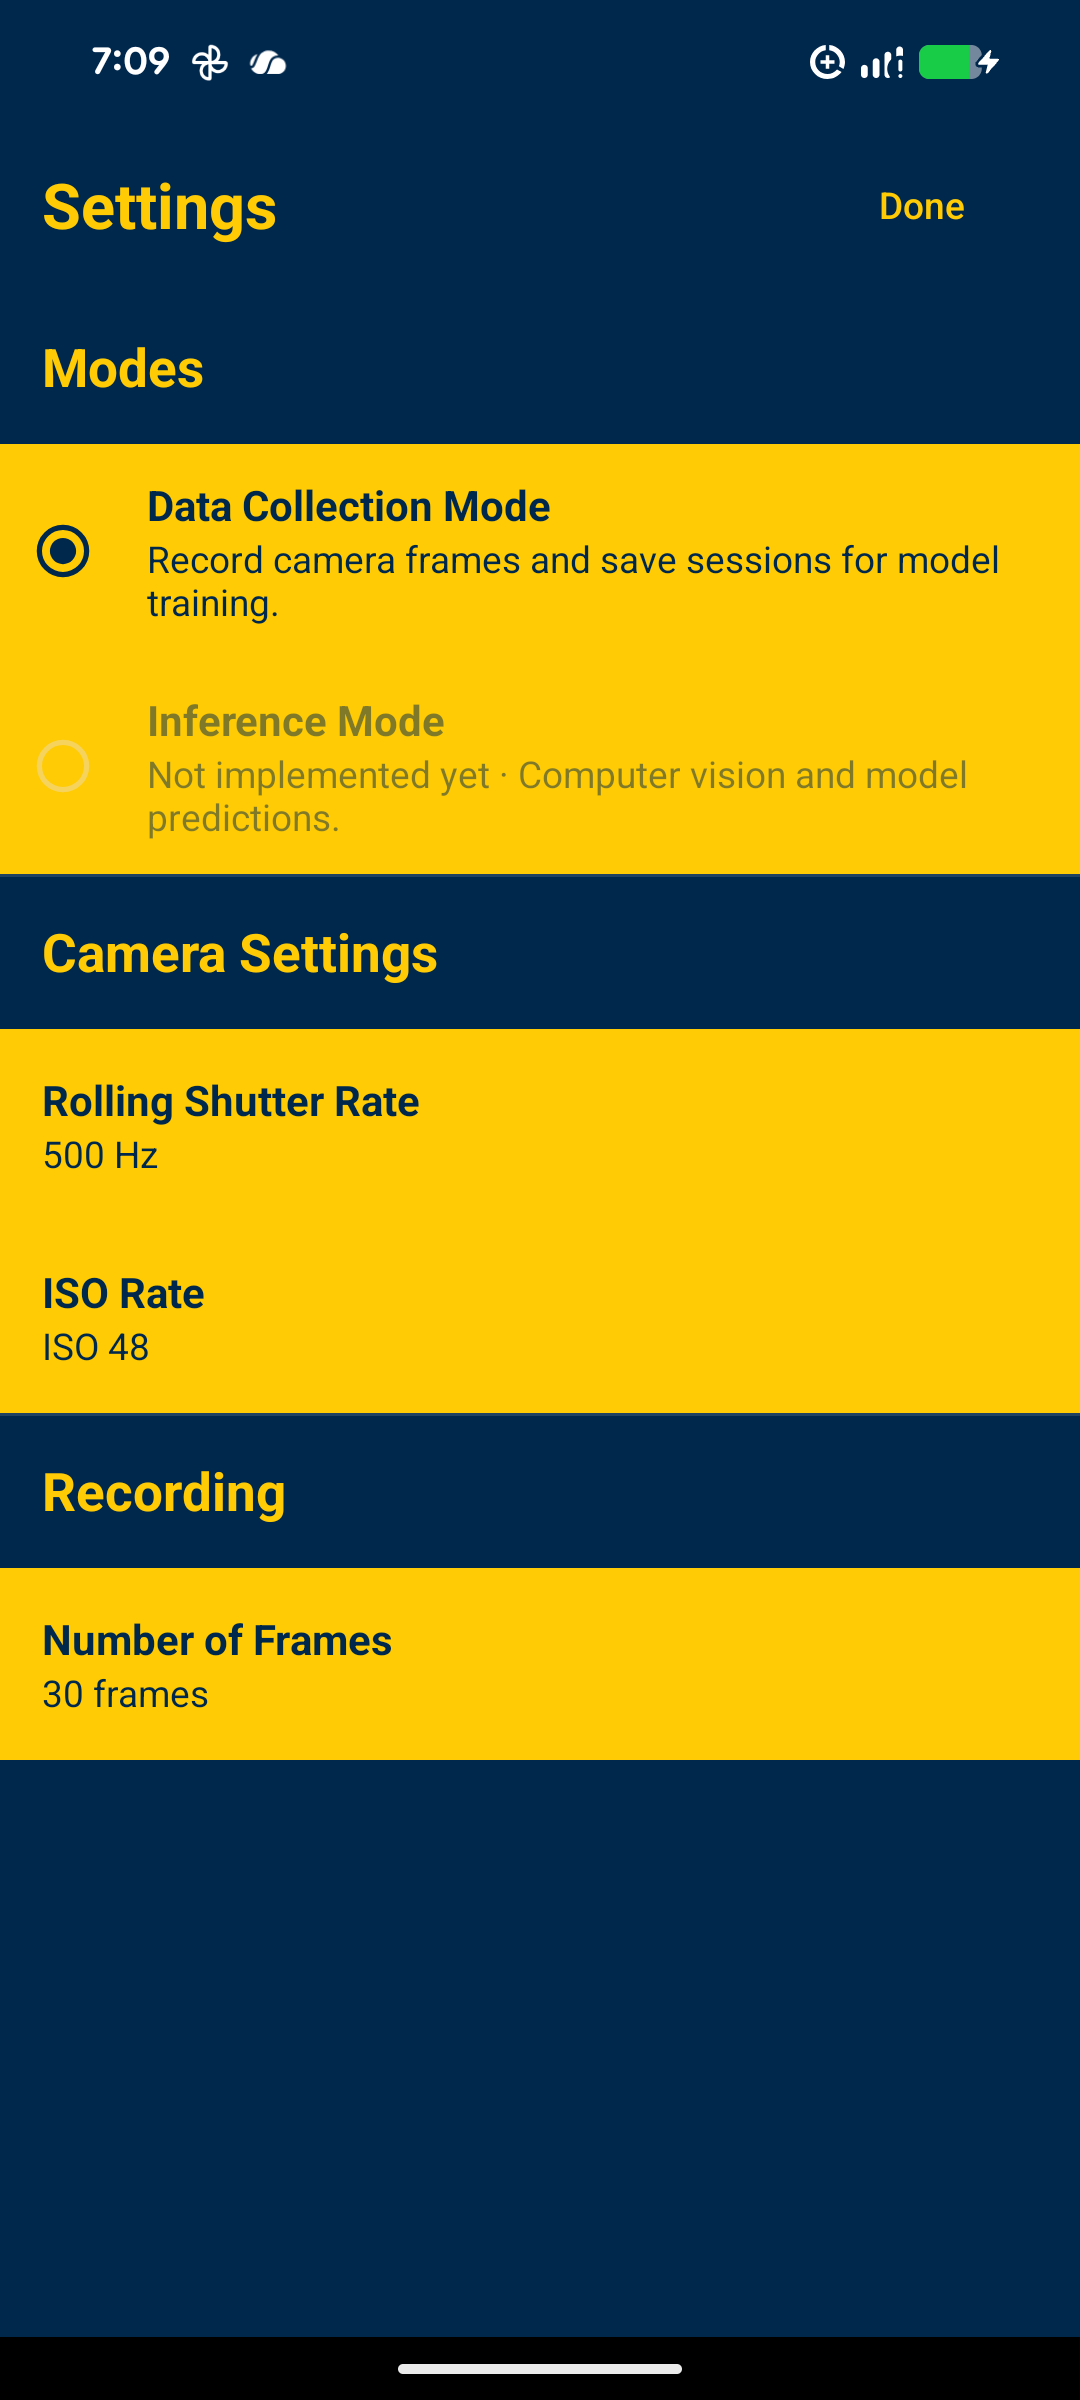
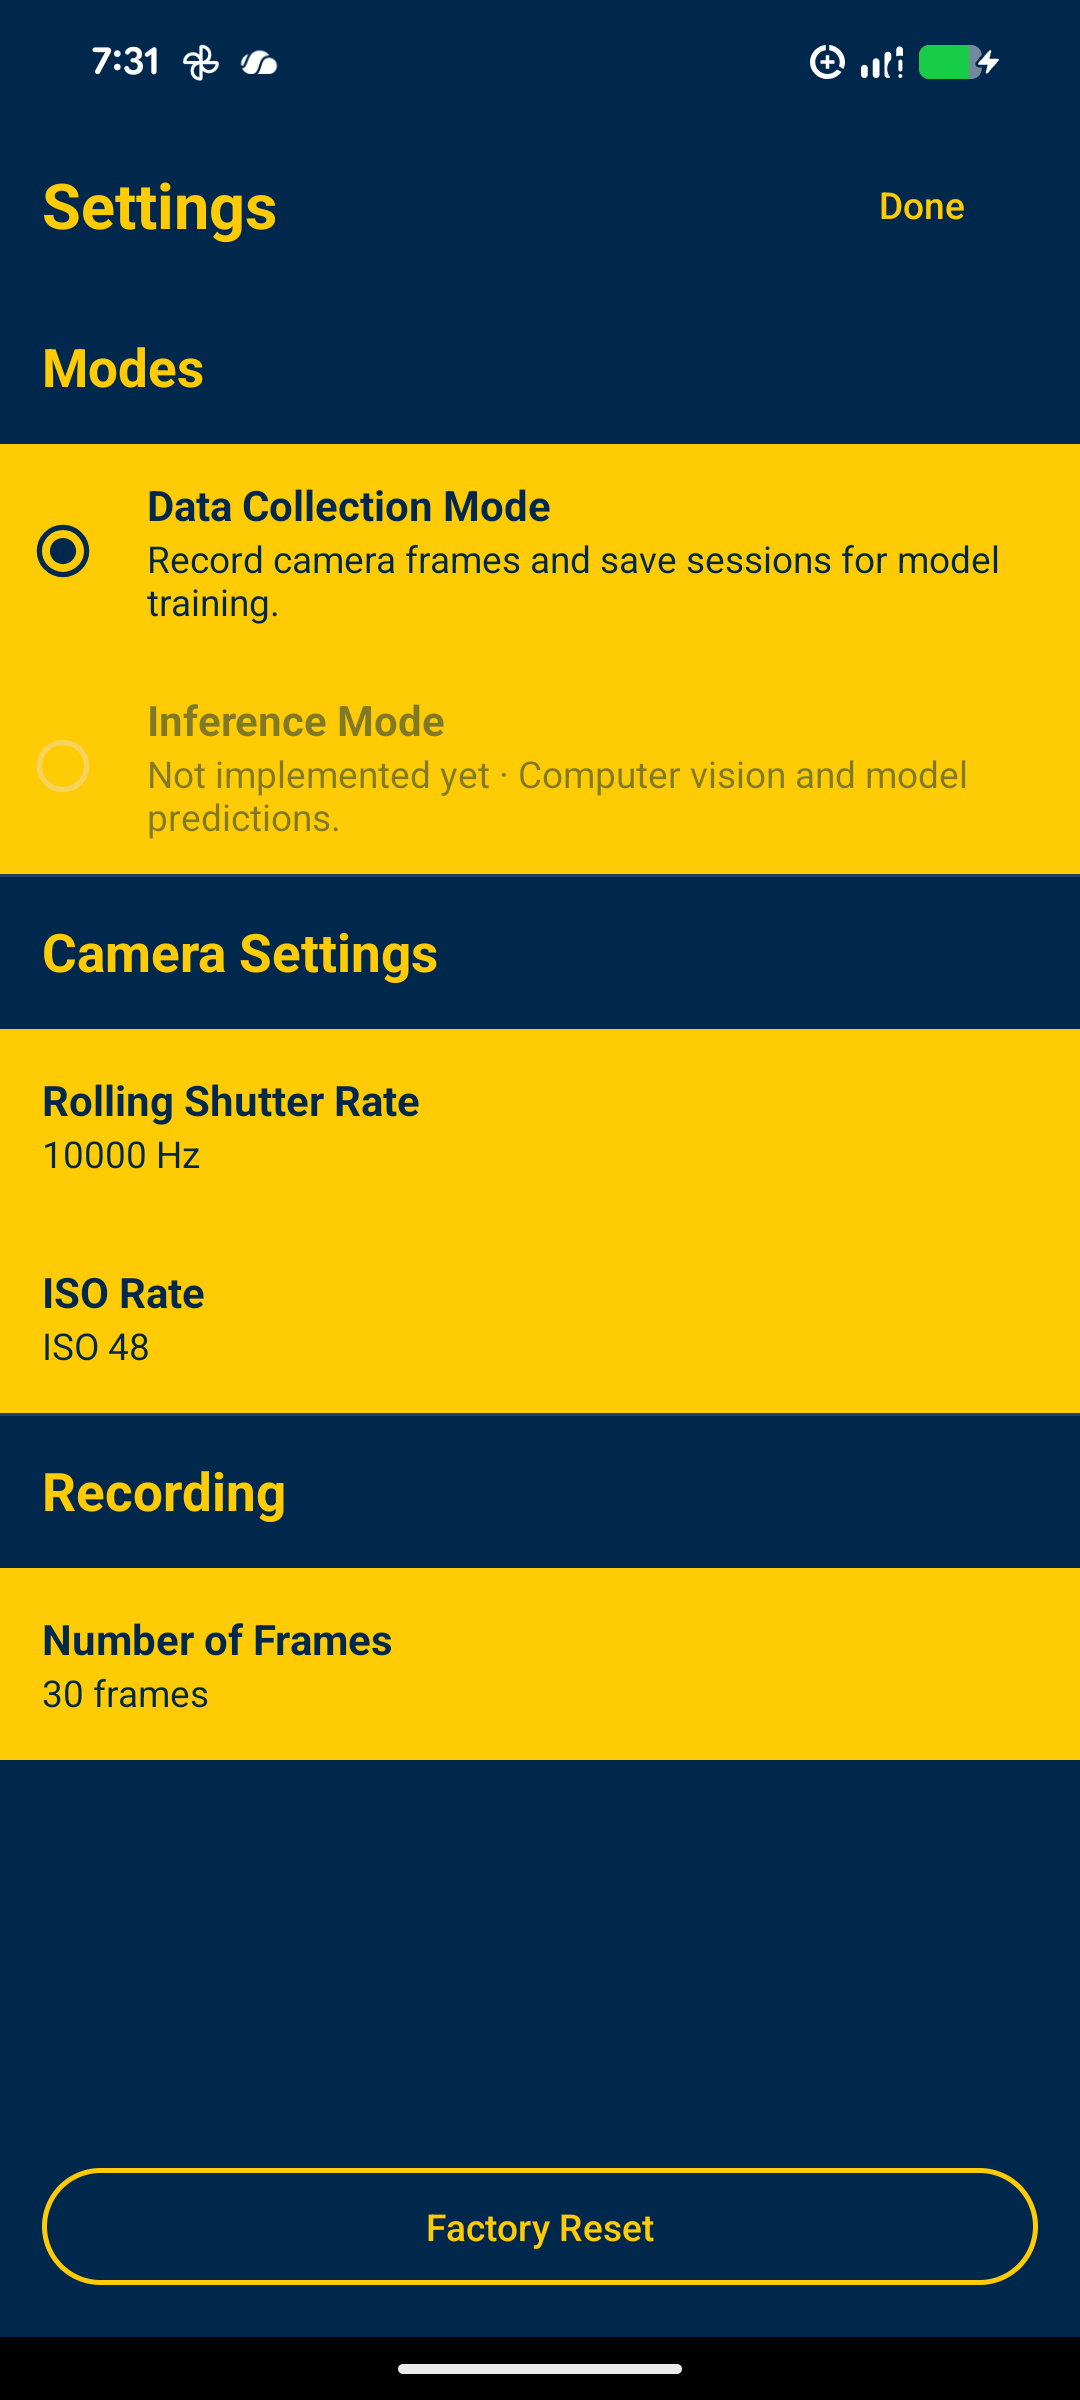
<DKA - November 14th 2026> {Add a Factory Reset button to Settings}
Factory Reset asks for confirmation, then restores the front camera, 1x zoom,
a 10000 Hz rolling shutter rate and the lowest ISO on both cameras, 30 frames
and Data Collection Mode, and clears the chosen position. Saved sessions and
the auto-save folder are kept.

diff --git a/app/src/main/java/com/developer27/qvlp/FactoryReset.kt b/app/src/main/java/com/developer27/qvlp/FactoryReset.kt
@@ -1,0 +1,35 @@
+package com.developer27.qvlp
+
+import android.content.Context
+import androidx.preference.PreferenceManager
+import com.developer27.qvlp.camera.CameraChoice
+import com.developer27.qvlp.capture.SessionFiles
+
+/**
+ * Puts the settings back the way a new installation starts: the front camera, 1× zoom, the default rolling
+ * shutter rate and the lowest ISO on every camera, 30 frames, Data Collection Mode and no position chosen.
+ * Recorded sessions and the auto-save folder are not settings and are kept.
+ */
+internal object FactoryReset {
+    private val CAMERA_SETTING = Regex("camera_[^_]+_(exposure_ns|iso|zoom|physical_id)")
+    private val SETTINGS = setOf(CameraChoice.PREFERENCE_KEY, "capture_frame_count", SettingsActivity.MODE_PREFERENCE,
+        "position_id", "last_capture_position")
+
+    @Volatile private var done = false
+
+    /** The stored values a reset removes. Anything else the app remembers is left as it is. */
+    fun keys(stored: Set<String>): Set<String> = stored.filter { it in SETTINGS || CAMERA_SETTING.matches(it) }.toSet()
+
+    fun apply(context: Context) {
+        val preferences = PreferenceManager.getDefaultSharedPreferences(context)
+        val editor = preferences.edit()
+        keys(preferences.all.keys).forEach { editor.remove(it) }
+        check(editor.commit()) { "Could not restore the settings." }
+        // Frames taken with other settings never share a session.
+        SessionFiles.newSession(context.applicationContext)
+        done = true
+    }
+
+    /** True once after a reset, so the camera screen forgets the result and position it was showing. */
+    fun consume(): Boolean = done.also { done = false }
+}

diff --git a/app/src/main/java/com/developer27/qvlp/SettingsActivity.kt b/app/src/main/java/com/developer27/qvlp/SettingsActivity.kt
@@ -26,10 +26,26 @@ class SettingsActivity : AppCompatActivity() {
         setContentView(R.layout.settings_activity)
         findViewById<android.widget.TextView>(R.id.settingsTitle).setText(R.string.settings)
         findViewById<android.widget.Button>(R.id.settingsDone).setOnClickListener { finish() }
+        findViewById<android.widget.Button>(R.id.factoryResetButton).setOnClickListener { confirmFactoryReset() }
         if (savedInstanceState == null) {
             supportFragmentManager.beginTransaction()
                 .replace(R.id.settings_container, SettingsFragment()).commit()
         }
+    }
+
+    /** Nothing is restored until the operator confirms. The camera screen then reopens with the defaults. */
+    private fun confirmFactoryReset() {
+        androidx.appcompat.app.AlertDialog.Builder(this).setTitle(R.string.factory_reset_title)
+            .setMessage(R.string.factory_reset_message)
+            .setPositiveButton(R.string.factory_reset_confirm) { _, _ ->
+                runCatching { FactoryReset.apply(applicationContext) }.fold(
+                    onSuccess = {
+                        Toast.makeText(this, R.string.factory_reset_done, Toast.LENGTH_SHORT).show()
+                        finish()
+                    },
+                    onFailure = { Toast.makeText(this, it.message, Toast.LENGTH_LONG).show() })
+            }
+            .setNegativeButton(android.R.string.cancel, null).show()
     }
 
     companion object {

diff --git a/app/src/test/java/com/developer27/qvlp/FactoryResetTest.kt b/app/src/test/java/com/developer27/qvlp/FactoryResetTest.kt
@@ -1,0 +1,20 @@
+package com.developer27.qvlp
+
+import org.junit.Assert.assertEquals
+import org.junit.Test
+
+class FactoryResetTest {
+    @Test fun removesEverySettingOfEveryCamera() {
+        val stored = setOf("camera_0_exposure_ns", "camera_0_iso", "camera_0_zoom", "camera_0_physical_id",
+            "camera_1_exposure_ns", "camera_1_iso", "camera_1_zoom", "capture_camera", "capture_frame_count", "app_mode",
+            "position_id", "last_capture_position")
+        assertEquals(stored, FactoryReset.keys(stored))
+    }
+
+    @Test fun keepsWhatIsNotASetting() {
+        // The session being recorded, the one-time settings import and unrelated values stay.
+        val kept = setOf("active_research_session", "camera_settings_migrated", "camera_0_resolution_note", "something_else")
+        assertEquals(emptySet<String>(), FactoryReset.keys(kept))
+        assertEquals(setOf("camera_1_iso"), FactoryReset.keys(kept + "camera_1_iso"))
+    }
+}

diff --git a/app/src/main/java/com/developer27/qvlp/MainActivity.kt b/app/src/main/java/com/developer27/qvlp/MainActivity.kt
@@ -171,6 +171,7 @@ class MainActivity : AppCompatActivity() {
         cameraHelper.fitPreview()
         cameraHelper.startBackgroundThread()
         cameraRecovery.restart() // Settings may have changed while the screen was away.
+        if (FactoryReset.consume()) sessionChanged(resetPosition = true)
         openCameraWhenReady()
         updateControls()
         if (!captureBusy && !fileBusy) sessions.resumeSaving()

diff --git a/README.md b/README.md
@@ -30,10 +30,12 @@ Taken on a Pixel 8a. The files are in [`screenshots/`](screenshots), numbered in
 | 4. Replace Position | 5. Information | 6. Sessions |
 | <img src="screenshots/7.png" width="220" alt="Settings"> | <img src="screenshots/8.png" width="220" alt="Rolling Shutter Rate"> | <img src="screenshots/9.png" width="220" alt="About"> |
 | 7. Settings | 8. Rolling Shutter Rate | 9. About |
+| <img src="screenshots/10.png" width="220" alt="Factory Reset"> | | |
+| 10. Factory Reset | | |
 
 ## Using Q-VLP
 
-**Settings** has three groups. **Modes** is two radio buttons: **Data Collection Mode** is selected and runs the recording workflow; **Inference Mode** is faded, marked **Not implemented yet** and cannot be selected. **Camera Settings** has **Rolling Shutter Rate** and **ISO Rate**. **Recording** has **Number of Frames**. There is no Help section.
+**Settings** has three groups. **Modes** is two radio buttons: **Data Collection Mode** is selected and runs the recording workflow; **Inference Mode** is faded, marked **Not implemented yet** and cannot be selected. **Camera Settings** has **Rolling Shutter Rate** and **ISO Rate**. **Recording** has **Number of Frames**. A **Factory Reset** button sits at the bottom. There is no Help section.
 
 1. Tap **Position** and enter the position ID. Only the ID is typed: there are no X/Y coordinates and no list to import.
 2. Mount the phone with the camera lens over the mark, at the same height for every position.
@@ -177,7 +179,7 @@ A capture is always a number of frames; there is no duration mode. The number is
 
 ### Fixed settings and research checks
 
-There is no Factory Reset: nothing but the rolling shutter rate and ISO can be changed, so there is nothing else to restore. On each camera the app uses the resolution closest to the planned 1280 × 960 that covers the sensor, at 30 fps, and holds focus and white balance still. Resolution, frame-rate, focus and white-balance values saved by earlier versions are ignored. If a camera cannot meet these fixed values, a notice on the camera screen explains why and the other camera can be selected.
+**Settings → Factory Reset** asks for confirmation and then puts every setting back the way a new installation starts: the front camera, 1× zoom, a 10000 Hz rolling shutter rate and the lowest ISO on both cameras, 30 frames and Data Collection Mode, with no position chosen. Saved sessions and the auto-save folder are kept, and the next capture starts a new session. On each camera the app uses the resolution closest to the planned 1280 × 960 that covers the sensor, at 30 fps, and holds focus and white balance still. Resolution, frame-rate, focus and white-balance values saved by earlier versions are ignored. If a camera cannot meet these fixed values, a notice on the camera screen explains why and the other camera can be selected.
 
 Capture is checked before the countdown and again immediately before camera capture. On the selected camera, 1× zoom, fixed full-aspect-ratio resolution, a rolling shutter rate from the list, manual ISO, target FPS and the app-held focus and white balance must be valid. Camera readiness also requires confirmed focus/white-balance controls and two stable actual exposure/ISO/frame-duration readings with the expected sensor crop. Unknown measurements or a reported frame duration longer than 33,350,000 ns prevent capture. Nominal 30 fps allows at most 0.05% sensor-timing rounding; the requested FPS must still be at least 30. Sensor frame duration confirms the reported cadence; sustained delivered FPS still needs measurement on the phone and is logged separately. Later drift generates capture warnings.
 
